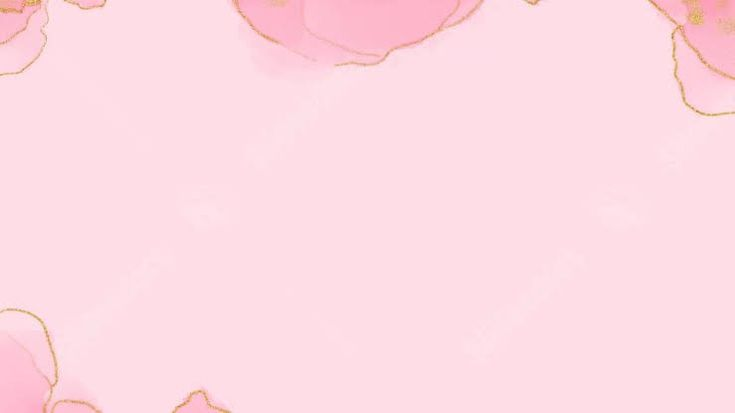
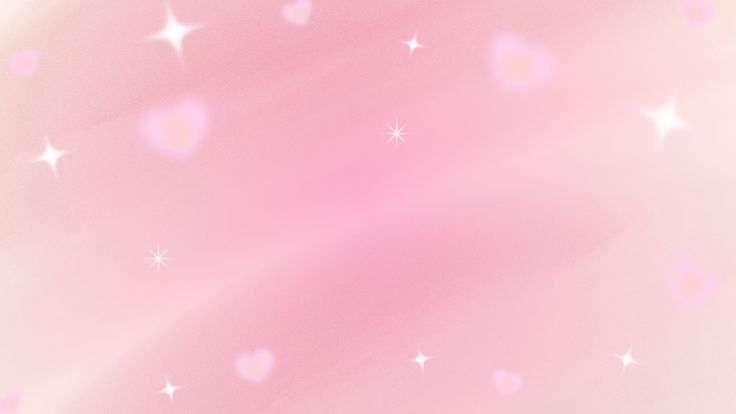
Add files via upload

diff --git a/index.html b/index.html
@@ -174,7 +174,6 @@
     <h2 class="section-title fade-in">MY PROJECTS</h2>
     
     <div class="project-carousel fade-in">
-        
         <div class="carousel-track">
             <a href="images/project1.jpg" target="_blank" class="project-link">
                 <div class="project-item"><img src="images/project1.jpg" alt="Project 1"></div>
@@ -213,7 +212,6 @@
                 <div class="project-item"><img src="images/project12.png" alt="Project 12"></div>
             </a>
         </div>
-        
     </div>
     </section>
 
@@ -228,22 +226,22 @@
     <div class="certificate-grid fade-in">
         
         <div class="certificate-card landscape">
-            <a href="images/project6.jpg" target="_blank">
-                <img src="images/project6.jpg" alt="Certificate 1">
+            <a href="images/ON-PROGRESS.png" target="_blank">
+                <img src="images/ON-PROGRESS.png" alt="Certificate 1">
             </a>
             <p class="certificate-title">Certificate Java Language</p>
         </div>
 
         <div class="certificate-card landscape">
-            <a href="images/project6.jpg" target="_blank">
-                <img src="images/project6.jpg" alt="Certificate 2">
+            <a href="images/ON-PROGRESS.png" target="_blank">
+                <img src="images/ON-PROGRESS.png" alt="Certificate 2">
             </a>
             <p class="certificate-title">Certificate Project Management</p>
         </div>
 
         <div class="certificate-card landscape">
-            <a href="images/project6.jpg" target="_blank">
-                <img src="images/project6.jpg" alt="Certificate 3">
+            <a href="images/ON-PROGRESS.png" target="_blank">
+                <img src="images/ON-PROGRESS.png" alt="Certificate 3">
             </a>
             <p class="certificate-title">Certificate C Language</p>
         </div>
@@ -276,22 +274,21 @@
     </div>
 </section>
 
-<footer class="footer">
-    <p>&copy; 2024 DEWA AYU. All rights reserved.</p>
-    <div class="social-links">
-        <a href="https://www.linkedin.com/in/dewa-ayu-made-indah-novita-dewi-155241341" target="_blank">
-            <i class="fa-brands fa-linkedin"></i>
-        </a>
-        
-        <a href="https://www.instagram.com/dwayuu.u/" target="_blank">
-            <i class="fa-brands fa-instagram"></i>
-        </a>
-        
-        <a href="https://github.com/dewamericano" target="_blank">
-            <i class="fa-brands fa-github"></i>
-        </a>
+<section class="Contact" id="contact">
+    <footer class="footer">
+        <p>&copy; 2024 DEWA AYU. All rights reserved.</p>
+        <div class="social-links">
+            <a href="https://www.linkedin.com/in/dewa-ayu-made-indah-novita-dewi-155241341" target="_blank">
+                <i class="fa-brands fa-linkedin"></i>
+            </a>
+            <a href="https://www.instagram.com/dwayuu.u/" target="_blank">
+                <i class="fa-brands fa-instagram"></i>
+            </a>
+            <a href="https://github.com/dewamericano" target="_blank">
+                <i class="fa-brands fa-github"></i>
+            </a>
 
-        <a href="mailto:indah.novita07112005@gmail.com" target="_blank">
-            <i class="fa-solid fa-envelope"></i>
-        </a>
-    </div>
+            <a href="mailto:indah.novita07112005@gmail.com" target="_blank">
+                <i class="fa-solid fa-envelope"></i>
+    </footer>
+</section>

diff --git a/style.css b/style.css
@@ -56,7 +56,7 @@ header nav a:hover {
 
 /* ABOUT SECTION */
 .about {
-    background-image: url("images/about-bg.jpeg");
+    background-image: url("images/about-bg2.png");
     background-size: cover;
     background-position: center;
     background-repeat: no-repeat;
@@ -462,6 +462,7 @@ header nav a:hover {
     padding: 60px 0;
     text-align: center;
 }
+
 .project-carousel {
     overflow-x: scroll; 
     -webkit-overflow-scrolling: touch; 

diff --git a/script.js b/script.js
@@ -14,3 +14,4 @@ document.addEventListener("DOMContentLoaded", () => {
 
   elements.forEach(el => observer.observe(el));
 });
+
